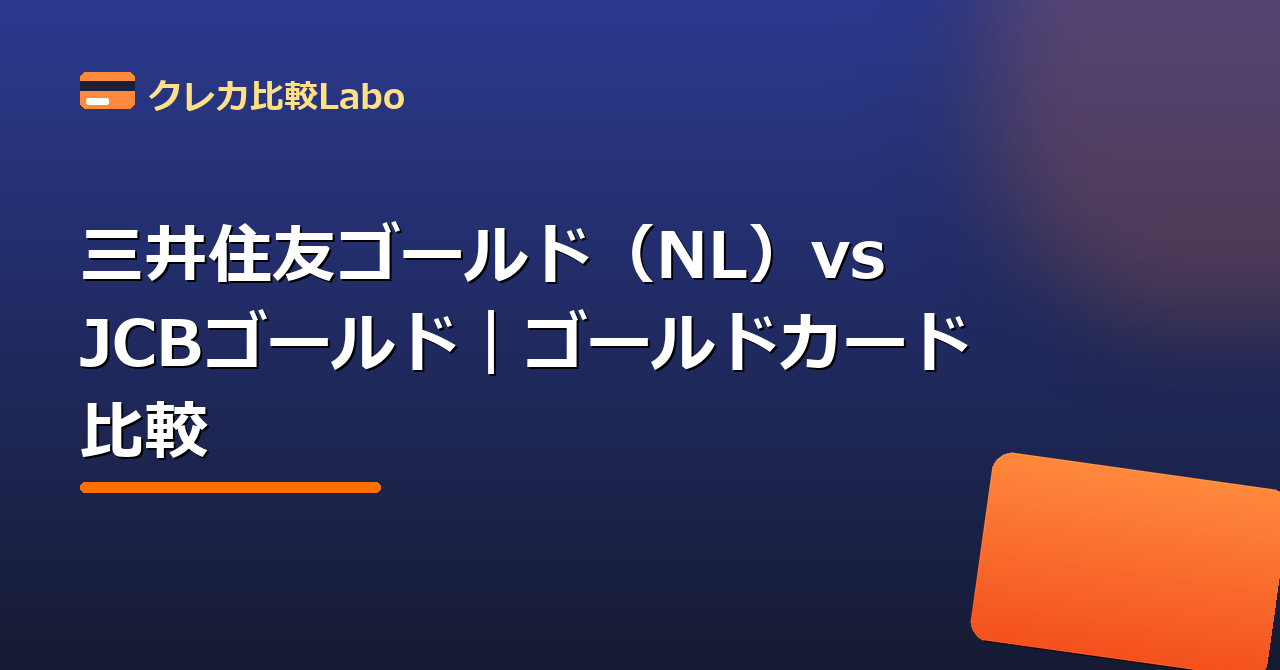
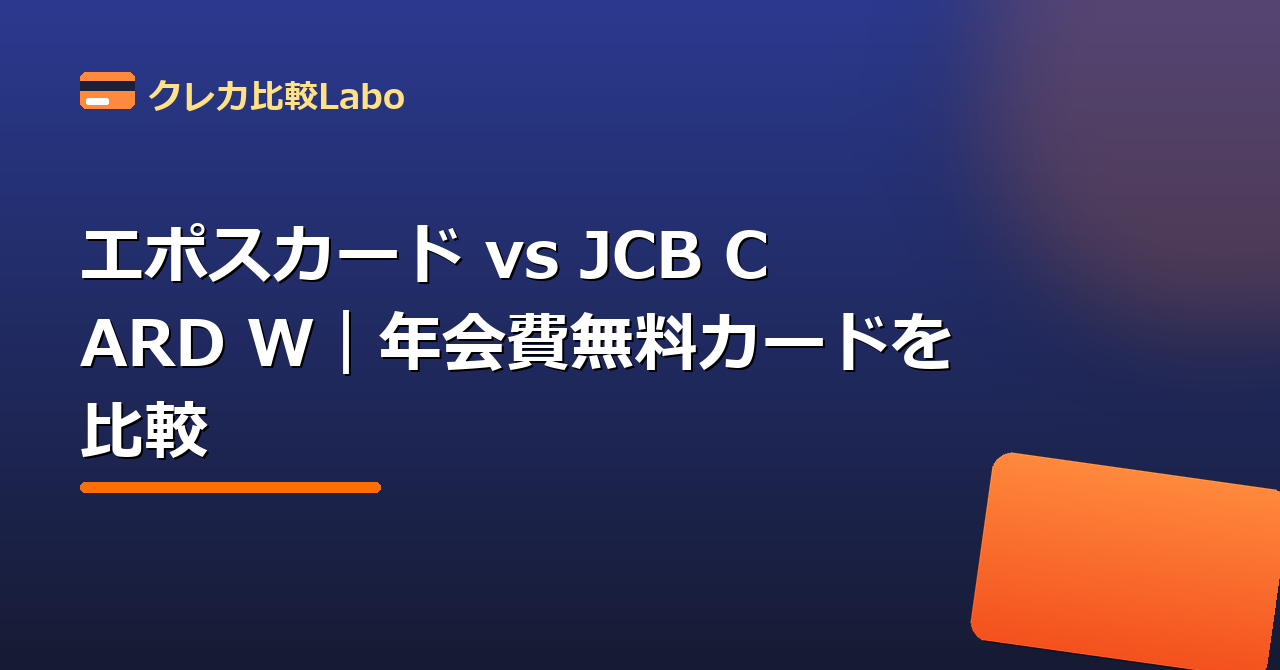
Add 3 new diagram types (store matrix / double-point route / tsumitate route) inspired by viral X infographics

Changed region(s): [[0.0625, 0.3284, 0.7812, 0.5672]]

diff --git a/articles/emoney-charge.html b/articles/emoney-charge.html
@@ -95,6 +95,10 @@
     <p class="article-date">📅 2026年6月9日 公開</p>
     <p class="article-byline">✍️ 監修・執筆：<a href="../about.html">クレカ比較Labo 編集責任者</a>（金融業界歴20年以上・元クレジットカード会社実務）</p>
     <p class="article-lead">電子マネーへのチャージでもポイントは貯まります。nanaco・WAONをお得に使う方法を解説します。</p>
+    <figure class="article-figure">
+      <svg viewBox="0 0 560 250" xmlns="http://www.w3.org/2000/svg" role="img" aria-label="ポイント二重取りの仕組み"><rect width="100%" height="100%" rx="14" fill="#fafbff"/><defs><marker id="arw" viewBox="0 0 10 10" refX="8" refY="5" markerWidth="7" markerHeight="7" orient="auto"><path d="M0,0L10,5L0,10z" fill="#ff6f00"/></marker></defs><text x="280" y="36" text-anchor="middle" font-size="19" font-weight="700" fill="#283593">ポイント二重取りの基本ルート</text><rect x="30" y="86" width="140" height="60" rx="12" fill="#3949ab"/><text x="100" y="122" text-anchor="middle" font-size="15" font-weight="700" fill="#fff">クレジットカード</text><line x1="172" y1="116" x2="222" y2="116" stroke="#ff6f00" stroke-width="3" marker-end="url(#arw)"/><text x="197" y="100" text-anchor="middle" font-size="12" font-weight="700" fill="#ff6f00">チャージ</text><text x="197" y="144" text-anchor="middle" font-size="12" font-weight="700" fill="#d84315">+0.5〜1%</text><rect x="228" y="86" width="140" height="60" rx="12" fill="#1f6fd0"/><text x="298" y="112" text-anchor="middle" font-size="14" font-weight="700" fill="#fff">電子マネー</text><text x="298" y="132" text-anchor="middle" font-size="14" font-weight="700" fill="#fff">スマホ決済</text><line x1="370" y1="116" x2="420" y2="116" stroke="#ff6f00" stroke-width="3" marker-end="url(#arw)"/><text x="395" y="100" text-anchor="middle" font-size="12" font-weight="700" fill="#ff6f00">支払い</text><text x="395" y="144" text-anchor="middle" font-size="12" font-weight="700" fill="#d84315">+0.5〜1%</text><rect x="426" y="86" width="104" height="60" rx="12" fill="#2e7d32"/><text x="478" y="122" text-anchor="middle" font-size="15" font-weight="700" fill="#fff">お店</text><rect x="120" y="176" width="320" height="34" rx="10" fill="#fff4e5"/><text x="280" y="198" text-anchor="middle" font-size="14" font-weight="700" fill="#d84315">合計 1〜2%（ポイントカード提示で三重取りも）</text><text x="280" y="232" text-anchor="middle" font-size="11" fill="#8a90a8">※チャージでポイントが付くカードの組み合わせが前提。付与対象は変更されることがあります。</text></svg>
+      <figcaption>チャージでポイントが付くカードを選ぶのが二重取りのコツです。</figcaption>
+    </figure>
     <nav class="article-toc" aria-label="目次">
       <p class="toc-title">📑 目次</p>
       <ol>

diff --git a/articles/konbini-card.html b/articles/konbini-card.html
@@ -95,6 +95,10 @@
     <p class="article-date">📅 2026年6月13日 公開</p>
     <p class="article-byline">✍️ 監修・執筆：<a href="../about.html">クレカ比較Labo 編集責任者</a>（金融業界歴20年以上・元クレジットカード会社実務）</p>
     <p class="article-lead">毎日のコンビニ利用は、カードと支払い方法の選び方だけで還元率が10倍以上変わることもある「ポイ活の主戦場」です。仕組みを知って取りこぼしを防ぎましょう。</p>
+    <figure class="article-figure">
+      <svg viewBox="0 0 560 300" xmlns="http://www.w3.org/2000/svg" role="img" aria-label="利用先別のカード還元率マトリクス"><rect width="100%" height="100%" rx="14" fill="#fafbff"/><text x="280" y="34" text-anchor="middle" font-size="19" font-weight="700" fill="#283593">どこで使う？×どのカード？ 還元率マップ</text><rect x="116" y="52" width="102" height="30" rx="6" fill="#283593"/><text x="167.0" y="72" text-anchor="middle" font-size="11" font-weight="700" fill="#fff">三井住友NL</text><rect x="222" y="52" width="102" height="30" rx="6" fill="#283593"/><text x="273.0" y="72" text-anchor="middle" font-size="11" font-weight="700" fill="#fff">JCB CARD W</text><rect x="328" y="52" width="102" height="30" rx="6" fill="#283593"/><text x="379.0" y="72" text-anchor="middle" font-size="11" font-weight="700" fill="#fff">楽天カード</text><rect x="434" y="52" width="102" height="30" rx="6" fill="#283593"/><text x="485.0" y="72" text-anchor="middle" font-size="11" font-weight="700" fill="#fff">イオンカード</text><text x="106" y="113.0" text-anchor="end" font-size="13" font-weight="700" fill="#3a3f5a">コンビニ</text><rect x="116" y="86" width="102" height="38" rx="8" fill="#ff6f00"/><text x="167.0" y="111.0" text-anchor="middle" font-size="15" font-weight="700" fill="#fff">最大7%</text><rect x="222" y="86" width="102" height="38" rx="8" fill="#3949ab"/><text x="273.0" y="111.0" text-anchor="middle" font-size="15" font-weight="700" fill="#fff">1%</text><rect x="328" y="86" width="102" height="38" rx="8" fill="#3949ab"/><text x="379.0" y="111.0" text-anchor="middle" font-size="15" font-weight="700" fill="#fff">1%</text><rect x="434" y="86" width="102" height="38" rx="8" fill="#eef0fa"/><text x="485.0" y="111.0" text-anchor="middle" font-size="15" font-weight="700" fill="#5a6079">0.5%</text><text x="106" y="157.0" text-anchor="end" font-size="13" font-weight="700" fill="#3a3f5a">ネット通販</text><rect x="116" y="130" width="102" height="38" rx="8" fill="#eef0fa"/><text x="167.0" y="155.0" text-anchor="middle" font-size="15" font-weight="700" fill="#5a6079">0.5%</text><rect x="222" y="130" width="102" height="38" rx="8" fill="#ff9800"/><text x="273.0" y="155.0" text-anchor="middle" font-size="11" font-weight="700" fill="#fff">Amazon 2%</text><rect x="328" y="130" width="102" height="38" rx="8" fill="#ff6f00"/><text x="379.0" y="155.0" text-anchor="middle" font-size="11" font-weight="700" fill="#fff">楽天市場 3%</text><rect x="434" y="130" width="102" height="38" rx="8" fill="#eef0fa"/><text x="485.0" y="155.0" text-anchor="middle" font-size="15" font-weight="700" fill="#5a6079">0.5%</text><text x="106" y="201.0" text-anchor="end" font-size="13" font-weight="700" fill="#3a3f5a">イオン系</text><rect x="116" y="174" width="102" height="38" rx="8" fill="#eef0fa"/><text x="167.0" y="199.0" text-anchor="middle" font-size="15" font-weight="700" fill="#5a6079">0.5%</text><rect x="222" y="174" width="102" height="38" rx="8" fill="#3949ab"/><text x="273.0" y="199.0" text-anchor="middle" font-size="15" font-weight="700" fill="#fff">1%</text><rect x="328" y="174" width="102" height="38" rx="8" fill="#3949ab"/><text x="379.0" y="199.0" text-anchor="middle" font-size="15" font-weight="700" fill="#fff">1%</text><rect x="434" y="174" width="102" height="38" rx="8" fill="#3949ab"/><text x="485.0" y="199.0" text-anchor="middle" font-size="15" font-weight="700" fill="#fff">1%+優待</text><text x="106" y="245.0" text-anchor="end" font-size="13" font-weight="700" fill="#3a3f5a">基本還元</text><rect x="116" y="218" width="102" height="38" rx="8" fill="#eef0fa"/><text x="167.0" y="243.0" text-anchor="middle" font-size="15" font-weight="700" fill="#5a6079">0.5%</text><rect x="222" y="218" width="102" height="38" rx="8" fill="#3949ab"/><text x="273.0" y="243.0" text-anchor="middle" font-size="15" font-weight="700" fill="#fff">1%</text><rect x="328" y="218" width="102" height="38" rx="8" fill="#3949ab"/><text x="379.0" y="243.0" text-anchor="middle" font-size="15" font-weight="700" fill="#fff">1%</text><rect x="434" y="218" width="102" height="38" rx="8" fill="#eef0fa"/><text x="485.0" y="243.0" text-anchor="middle" font-size="15" font-weight="700" fill="#5a6079">0.5%</text><text x="280" y="284" text-anchor="middle" font-size="11" fill="#8a90a8">※タッチ決済・特約店等の条件あり。最新の還元条件は各公式サイトで。</text></svg>
+      <figcaption>カードによって「得意な場所」が違います。コンビニ利用が多いなら対象店高還元カードを。</figcaption>
+    </figure>
     <nav class="article-toc" aria-label="目次">
       <p class="toc-title">📑 目次</p>
       <ol>

diff --git a/articles/nisa-card-combo.html b/articles/nisa-card-combo.html
@@ -95,6 +95,10 @@
     <p class="article-date">📅 2026年6月10日 公開</p>
     <p class="article-byline">✍️ 監修・執筆：<a href="../about.html">クレカ比較Labo 編集責任者</a>（金融業界歴20年以上・元クレジットカード会社実務）</p>
     <p class="article-lead">新NISAをお得に使う鍵は「証券会社とクレジットカードの組み合わせ」です。同系列で揃えるとクレカ積立の還元率が上がります。代表的な組み合わせを比較します。</p>
+    <figure class="article-figure">
+      <svg viewBox="0 0 560 270" xmlns="http://www.w3.org/2000/svg" role="img" aria-label="クレカ積立のカードと証券会社の組み合わせ"><rect width="100%" height="100%" rx="14" fill="#fafbff"/><defs><marker id="arw2" viewBox="0 0 10 10" refX="8" refY="5" markerWidth="7" markerHeight="7" orient="auto"><path d="M0,0L10,5L0,10z" fill="#ff6f00"/></marker></defs><text x="280" y="36" text-anchor="middle" font-size="19" font-weight="700" fill="#283593">クレカ積立は「カード×証券」の組み合わせ</text><rect x="40" y="62" width="180" height="46" rx="10" fill="#fff" stroke="#bf0000" stroke-width="2"/><text x="130" y="91" text-anchor="middle" font-size="13" font-weight="700" fill="#bf0000">楽天カード</text><line x1="226" y1="85" x2="306" y2="85" stroke="#ff6f00" stroke-width="3" marker-end="url(#arw2)"/><text x="266" y="74" text-anchor="middle" font-size="11" font-weight="700" fill="#ff6f00">積立</text><rect x="312" y="62" width="180" height="46" rx="10" fill="#bf0000"/><text x="402" y="91" text-anchor="middle" font-size="13" font-weight="700" fill="#fff">楽天証券</text><rect x="40" y="120" width="180" height="46" rx="10" fill="#fff" stroke="#1f6fd0" stroke-width="2"/><text x="130" y="149" text-anchor="middle" font-size="13" font-weight="700" fill="#1f6fd0">三井住友カード(NL)</text><line x1="226" y1="143" x2="306" y2="143" stroke="#ff6f00" stroke-width="3" marker-end="url(#arw2)"/><text x="266" y="132" text-anchor="middle" font-size="11" font-weight="700" fill="#ff6f00">積立</text><rect x="312" y="120" width="180" height="46" rx="10" fill="#1f6fd0"/><text x="402" y="149" text-anchor="middle" font-size="13" font-weight="700" fill="#fff">SBI証券</text><rect x="40" y="178" width="180" height="46" rx="10" fill="#fff" stroke="#00897b" stroke-width="2"/><text x="130" y="207" text-anchor="middle" font-size="13" font-weight="700" fill="#00897b">マネックスカード</text><line x1="226" y1="201" x2="306" y2="201" stroke="#ff6f00" stroke-width="3" marker-end="url(#arw2)"/><text x="266" y="190" text-anchor="middle" font-size="11" font-weight="700" fill="#ff6f00">積立</text><rect x="312" y="178" width="180" height="46" rx="10" fill="#00897b"/><text x="402" y="207" text-anchor="middle" font-size="13" font-weight="700" fill="#fff">マネックス証券</text><text x="280" y="252" text-anchor="middle" font-size="13" font-weight="700" fill="#d84315">積立するだけで決済額の0.5〜1%前後のポイントが毎月貯まる</text></svg>
+      <figcaption>同じ経済圏の「カード×証券」ペアで選ぶと、ポイントが効率よく貯まります。</figcaption>
+    </figure>
     <nav class="article-toc" aria-label="目次">
       <p class="toc-title">📑 目次</p>
       <ol>

diff --git a/articles/point-double.html b/articles/point-double.html
@@ -95,6 +95,10 @@
     <p class="article-date">📅 2026年6月9日 公開</p>
     <p class="article-byline">✍️ 監修・執筆：<a href="../about.html">クレカ比較Labo 編集責任者</a>（金融業界歴20年以上・元クレジットカード会社実務）</p>
     <p class="article-lead">支払い方法を工夫するだけで、ポイントは二重・三重に貯まります。還元率を最大化するテクニックを解説します。</p>
+    <figure class="article-figure">
+      <svg viewBox="0 0 560 250" xmlns="http://www.w3.org/2000/svg" role="img" aria-label="ポイント二重取りの仕組み"><rect width="100%" height="100%" rx="14" fill="#fafbff"/><defs><marker id="arw" viewBox="0 0 10 10" refX="8" refY="5" markerWidth="7" markerHeight="7" orient="auto"><path d="M0,0L10,5L0,10z" fill="#ff6f00"/></marker></defs><text x="280" y="36" text-anchor="middle" font-size="19" font-weight="700" fill="#283593">ポイント二重取りの基本ルート</text><rect x="30" y="86" width="140" height="60" rx="12" fill="#3949ab"/><text x="100" y="122" text-anchor="middle" font-size="15" font-weight="700" fill="#fff">クレジットカード</text><line x1="172" y1="116" x2="222" y2="116" stroke="#ff6f00" stroke-width="3" marker-end="url(#arw)"/><text x="197" y="100" text-anchor="middle" font-size="12" font-weight="700" fill="#ff6f00">チャージ</text><text x="197" y="144" text-anchor="middle" font-size="12" font-weight="700" fill="#d84315">+0.5〜1%</text><rect x="228" y="86" width="140" height="60" rx="12" fill="#1f6fd0"/><text x="298" y="112" text-anchor="middle" font-size="14" font-weight="700" fill="#fff">電子マネー</text><text x="298" y="132" text-anchor="middle" font-size="14" font-weight="700" fill="#fff">スマホ決済</text><line x1="370" y1="116" x2="420" y2="116" stroke="#ff6f00" stroke-width="3" marker-end="url(#arw)"/><text x="395" y="100" text-anchor="middle" font-size="12" font-weight="700" fill="#ff6f00">支払い</text><text x="395" y="144" text-anchor="middle" font-size="12" font-weight="700" fill="#d84315">+0.5〜1%</text><rect x="426" y="86" width="104" height="60" rx="12" fill="#2e7d32"/><text x="478" y="122" text-anchor="middle" font-size="15" font-weight="700" fill="#fff">お店</text><rect x="120" y="176" width="320" height="34" rx="10" fill="#fff4e5"/><text x="280" y="198" text-anchor="middle" font-size="14" font-weight="700" fill="#d84315">合計 1〜2%（ポイントカード提示で三重取りも）</text><text x="280" y="232" text-anchor="middle" font-size="11" fill="#8a90a8">※チャージでポイントが付くカードの組み合わせが前提。付与対象は変更されることがあります。</text></svg>
+      <figcaption>チャージと支払いの両方でポイントが付くのが「二重取り」の基本形です。</figcaption>
+    </figure>
     <nav class="article-toc" aria-label="目次">
       <p class="toc-title">📑 目次</p>
       <ol>

diff --git a/articles/supermarket-card.html b/articles/supermarket-card.html
@@ -95,6 +95,10 @@
     <p class="article-date">📅 2026年6月14日 公開</p>
     <p class="article-byline">✍️ 監修・執筆：<a href="../about.html">クレカ比較Labo 編集責任者</a>（金融業界歴20年以上・元クレジットカード会社実務）</p>
     <p class="article-lead">食費・日用品は家計支出の中心。よく行くスーパーに合わせたカード選びと優待デーの活用で、毎月の生活費から着実にポイントを回収しましょう。</p>
+    <figure class="article-figure">
+      <svg viewBox="0 0 560 300" xmlns="http://www.w3.org/2000/svg" role="img" aria-label="利用先別のカード還元率マトリクス"><rect width="100%" height="100%" rx="14" fill="#fafbff"/><text x="280" y="34" text-anchor="middle" font-size="19" font-weight="700" fill="#283593">どこで使う？×どのカード？ 還元率マップ</text><rect x="116" y="52" width="102" height="30" rx="6" fill="#283593"/><text x="167.0" y="72" text-anchor="middle" font-size="11" font-weight="700" fill="#fff">三井住友NL</text><rect x="222" y="52" width="102" height="30" rx="6" fill="#283593"/><text x="273.0" y="72" text-anchor="middle" font-size="11" font-weight="700" fill="#fff">JCB CARD W</text><rect x="328" y="52" width="102" height="30" rx="6" fill="#283593"/><text x="379.0" y="72" text-anchor="middle" font-size="11" font-weight="700" fill="#fff">楽天カード</text><rect x="434" y="52" width="102" height="30" rx="6" fill="#283593"/><text x="485.0" y="72" text-anchor="middle" font-size="11" font-weight="700" fill="#fff">イオンカード</text><text x="106" y="113.0" text-anchor="end" font-size="13" font-weight="700" fill="#3a3f5a">コンビニ</text><rect x="116" y="86" width="102" height="38" rx="8" fill="#ff6f00"/><text x="167.0" y="111.0" text-anchor="middle" font-size="15" font-weight="700" fill="#fff">最大7%</text><rect x="222" y="86" width="102" height="38" rx="8" fill="#3949ab"/><text x="273.0" y="111.0" text-anchor="middle" font-size="15" font-weight="700" fill="#fff">1%</text><rect x="328" y="86" width="102" height="38" rx="8" fill="#3949ab"/><text x="379.0" y="111.0" text-anchor="middle" font-size="15" font-weight="700" fill="#fff">1%</text><rect x="434" y="86" width="102" height="38" rx="8" fill="#eef0fa"/><text x="485.0" y="111.0" text-anchor="middle" font-size="15" font-weight="700" fill="#5a6079">0.5%</text><text x="106" y="157.0" text-anchor="end" font-size="13" font-weight="700" fill="#3a3f5a">ネット通販</text><rect x="116" y="130" width="102" height="38" rx="8" fill="#eef0fa"/><text x="167.0" y="155.0" text-anchor="middle" font-size="15" font-weight="700" fill="#5a6079">0.5%</text><rect x="222" y="130" width="102" height="38" rx="8" fill="#ff9800"/><text x="273.0" y="155.0" text-anchor="middle" font-size="11" font-weight="700" fill="#fff">Amazon 2%</text><rect x="328" y="130" width="102" height="38" rx="8" fill="#ff6f00"/><text x="379.0" y="155.0" text-anchor="middle" font-size="11" font-weight="700" fill="#fff">楽天市場 3%</text><rect x="434" y="130" width="102" height="38" rx="8" fill="#eef0fa"/><text x="485.0" y="155.0" text-anchor="middle" font-size="15" font-weight="700" fill="#5a6079">0.5%</text><text x="106" y="201.0" text-anchor="end" font-size="13" font-weight="700" fill="#3a3f5a">イオン系</text><rect x="116" y="174" width="102" height="38" rx="8" fill="#eef0fa"/><text x="167.0" y="199.0" text-anchor="middle" font-size="15" font-weight="700" fill="#5a6079">0.5%</text><rect x="222" y="174" width="102" height="38" rx="8" fill="#3949ab"/><text x="273.0" y="199.0" text-anchor="middle" font-size="15" font-weight="700" fill="#fff">1%</text><rect x="328" y="174" width="102" height="38" rx="8" fill="#3949ab"/><text x="379.0" y="199.0" text-anchor="middle" font-size="15" font-weight="700" fill="#fff">1%</text><rect x="434" y="174" width="102" height="38" rx="8" fill="#3949ab"/><text x="485.0" y="199.0" text-anchor="middle" font-size="15" font-weight="700" fill="#fff">1%+優待</text><text x="106" y="245.0" text-anchor="end" font-size="13" font-weight="700" fill="#3a3f5a">基本還元</text><rect x="116" y="218" width="102" height="38" rx="8" fill="#eef0fa"/><text x="167.0" y="243.0" text-anchor="middle" font-size="15" font-weight="700" fill="#5a6079">0.5%</text><rect x="222" y="218" width="102" height="38" rx="8" fill="#3949ab"/><text x="273.0" y="243.0" text-anchor="middle" font-size="15" font-weight="700" fill="#fff">1%</text><rect x="328" y="218" width="102" height="38" rx="8" fill="#3949ab"/><text x="379.0" y="243.0" text-anchor="middle" font-size="15" font-weight="700" fill="#fff">1%</text><rect x="434" y="218" width="102" height="38" rx="8" fill="#eef0fa"/><text x="485.0" y="243.0" text-anchor="middle" font-size="15" font-weight="700" fill="#5a6079">0.5%</text><text x="280" y="284" text-anchor="middle" font-size="11" fill="#8a90a8">※タッチ決済・特約店等の条件あり。最新の還元条件は各公式サイトで。</text></svg>
+      <figcaption>よく行くお店に合わせてカードを選ぶと、同じ支出でも貯まり方が変わります。</figcaption>
+    </figure>
     <nav class="article-toc" aria-label="目次">
       <p class="toc-title">📑 目次</p>
       <ol>

diff --git a/generate.py b/generate.py
@@ -1063,6 +1063,103 @@ def diagram_cardgrade(data=None):
     return _svg_frame(inner, vb="0 0 560 260", label="一般・ゴールド・プラチナの違い")
 
 
+def diagram_store_matrix(data=None):
+    """利用先×主要カードの還元率マトリクス（tako_pay型の保存版マップ）。"""
+    cols = ["三井住友NL", "JCB CARD W", "楽天カード", "イオンカード"]
+    rows = [
+        ("コンビニ", ["最大7%", "1%", "1%", "0.5%"]),
+        ("ネット通販", ["0.5%", "Amazon 2%", "楽天市場 3%", "0.5%"]),
+        ("イオン系", ["0.5%", "1%", "1%", "1%+優待"]),
+        ("基本還元", ["0.5%", "1%", "1%", "0.5%"]),
+    ]
+
+    def cell_style(v):
+        m = re.search(r"(\d+\.?\d*)", v)
+        n = float(m.group(1)) if m else 0
+        if n >= 3:
+            return "#ff6f00", "#fff"
+        if n >= 2:
+            return "#ff9800", "#fff"
+        if n >= 1:
+            return "#3949ab", "#fff"
+        return "#eef0fa", "#5a6079"
+
+    inner = ('<text x="280" y="34" text-anchor="middle" font-size="19" font-weight="700" fill="#283593">どこで使う？×どのカード？ 還元率マップ</text>')
+    x0, y0, lw, cw, rh = 20, 52, 96, 106, 44
+    # ヘッダー行
+    for i, c in enumerate(cols):
+        x = x0 + lw + i * cw
+        inner += f'<rect x="{x}" y="{y0}" width="{cw-4}" height="30" rx="6" fill="#283593"/>'
+        inner += f'<text x="{x+(cw-4)/2}" y="{y0+20}" text-anchor="middle" font-size="11" font-weight="700" fill="#fff">{c}</text>'
+    # データ行
+    for r, (label, cells) in enumerate(rows):
+        y = y0 + 34 + r * rh
+        inner += f'<text x="{x0+lw-10}" y="{y+rh/2+5}" text-anchor="end" font-size="13" font-weight="700" fill="#3a3f5a">{label}</text>'
+        for i, v in enumerate(cells):
+            x = x0 + lw + i * cw
+            bg, fg = cell_style(v)
+            fs = 15 if len(v) <= 5 else 11
+            inner += f'<rect x="{x}" y="{y}" width="{cw-4}" height="{rh-6}" rx="8" fill="{bg}"/>'
+            inner += f'<text x="{x+(cw-4)/2}" y="{y+rh/2+3}" text-anchor="middle" font-size="{fs}" font-weight="700" fill="{fg}">{v}</text>'
+    inner += f'<text x="280" y="{y0+34+4*rh+22}" text-anchor="middle" font-size="11" fill="#8a90a8">※タッチ決済・特約店等の条件あり。最新の還元条件は各公式サイトで。</text>'
+    return _svg_frame(inner, vb="0 0 560 300", label="利用先別のカード還元率マトリクス")
+
+
+def diagram_double_route(data=None):
+    """ポイント二重取りのルート図（クレカ→チャージ→支払い）。"""
+    inner = (
+        '<defs><marker id="arw" viewBox="0 0 10 10" refX="8" refY="5" markerWidth="7" markerHeight="7" orient="auto"><path d="M0,0L10,5L0,10z" fill="#ff6f00"/></marker></defs>'
+        '<text x="280" y="36" text-anchor="middle" font-size="19" font-weight="700" fill="#283593">ポイント二重取りの基本ルート</text>'
+        # クレカ
+        '<rect x="30" y="86" width="140" height="60" rx="12" fill="#3949ab"/>'
+        '<text x="100" y="122" text-anchor="middle" font-size="15" font-weight="700" fill="#fff">クレジットカード</text>'
+        # 矢印1
+        '<line x1="172" y1="116" x2="222" y2="116" stroke="#ff6f00" stroke-width="3" marker-end="url(#arw)"/>'
+        '<text x="197" y="100" text-anchor="middle" font-size="12" font-weight="700" fill="#ff6f00">チャージ</text>'
+        '<text x="197" y="144" text-anchor="middle" font-size="12" font-weight="700" fill="#d84315">+0.5〜1%</text>'
+        # 電子マネー/Pay
+        '<rect x="228" y="86" width="140" height="60" rx="12" fill="#1f6fd0"/>'
+        '<text x="298" y="112" text-anchor="middle" font-size="14" font-weight="700" fill="#fff">電子マネー</text>'
+        '<text x="298" y="132" text-anchor="middle" font-size="14" font-weight="700" fill="#fff">スマホ決済</text>'
+        # 矢印2
+        '<line x1="370" y1="116" x2="420" y2="116" stroke="#ff6f00" stroke-width="3" marker-end="url(#arw)"/>'
+        '<text x="395" y="100" text-anchor="middle" font-size="12" font-weight="700" fill="#ff6f00">支払い</text>'
+        '<text x="395" y="144" text-anchor="middle" font-size="12" font-weight="700" fill="#d84315">+0.5〜1%</text>'
+        # お店
+        '<rect x="426" y="86" width="104" height="60" rx="12" fill="#2e7d32"/>'
+        '<text x="478" y="122" text-anchor="middle" font-size="15" font-weight="700" fill="#fff">お店</text>'
+        # 合計と三重取り
+        '<rect x="120" y="176" width="320" height="34" rx="10" fill="#fff4e5"/>'
+        '<text x="280" y="198" text-anchor="middle" font-size="14" font-weight="700" fill="#d84315">合計 1〜2%（ポイントカード提示で三重取りも）</text>'
+        '<text x="280" y="232" text-anchor="middle" font-size="11" fill="#8a90a8">※チャージでポイントが付くカードの組み合わせが前提。付与対象は変更されることがあります。</text>'
+    )
+    return _svg_frame(inner, vb="0 0 560 250", label="ポイント二重取りの仕組み")
+
+
+def diagram_tsumitate_route(data=None):
+    """クレカ積立の「カード×証券」ペアのルート図。"""
+    pairs = [
+        ("楽天カード", "楽天証券", "#bf0000"),
+        ("三井住友カード(NL)", "SBI証券", "#1f6fd0"),
+        ("マネックスカード", "マネックス証券", "#00897b"),
+    ]
+    inner = (
+        '<defs><marker id="arw2" viewBox="0 0 10 10" refX="8" refY="5" markerWidth="7" markerHeight="7" orient="auto"><path d="M0,0L10,5L0,10z" fill="#ff6f00"/></marker></defs>'
+        '<text x="280" y="36" text-anchor="middle" font-size="19" font-weight="700" fill="#283593">クレカ積立は「カード×証券」の組み合わせ</text>'
+    )
+    y = 62
+    for card, broker, color in pairs:
+        inner += f'<rect x="40" y="{y}" width="180" height="46" rx="10" fill="#fff" stroke="{color}" stroke-width="2"/>'
+        inner += f'<text x="130" y="{y+29}" text-anchor="middle" font-size="13" font-weight="700" fill="{color}">{card}</text>'
+        inner += f'<line x1="226" y1="{y+23}" x2="306" y2="{y+23}" stroke="#ff6f00" stroke-width="3" marker-end="url(#arw2)"/>'
+        inner += f'<text x="266" y="{y+12}" text-anchor="middle" font-size="11" font-weight="700" fill="#ff6f00">積立</text>'
+        inner += f'<rect x="312" y="{y}" width="180" height="46" rx="10" fill="{color}"/>'
+        inner += f'<text x="402" y="{y+29}" text-anchor="middle" font-size="13" font-weight="700" fill="#fff">{broker}</text>'
+        y += 58
+    inner += f'<text x="280" y="{y+16}" text-anchor="middle" font-size="13" font-weight="700" fill="#d84315">積立するだけで決済額の0.5〜1%前後のポイントが毎月貯まる</text>'
+    return _svg_frame(inner, vb="0 0 560 270", label="クレカ積立のカードと証券会社の組み合わせ")
+
+
 def _reward_float(s):
     """還元率文字列から基本還元率の数値を取得（例: '1.0%〜3.0%' → 1.0）"""
     m = re.search(r"(\d+\.?\d*)\s*%", s or "")
@@ -1149,6 +1246,12 @@ DIAGRAMS = {
     "vs-epos-jcbw":      (_vs("epos-card", "jcb-card-w"),     "エポスカードとJCB CARD Wの基本還元率比較。"),
     "vs-dcard-rakuten":  (_vs("d-card", "rakuten-card"),      "dカードと楽天カードの基本還元率比較。"),
     "vs-smbc-recruit":   (_vs("smbc-card", "recruit-card"),   "三井住友カード(NL)とリクルートカードの基本還元率比較。"),
+    # マトリクス・ルート図解
+    "konbini-card":      (diagram_store_matrix, "カードによって「得意な場所」が違います。コンビニ利用が多いなら対象店高還元カードを。"),
+    "supermarket-card":  (diagram_store_matrix, "よく行くお店に合わせてカードを選ぶと、同じ支出でも貯まり方が変わります。"),
+    "point-double":      (diagram_double_route, "チャージと支払いの両方でポイントが付くのが「二重取り」の基本形です。"),
+    "emoney-charge":     (diagram_double_route, "チャージでポイントが付くカードを選ぶのが二重取りのコツです。"),
+    "nisa-card-combo":   (diagram_tsumitate_route, "同じ経済圏の「カード×証券」ペアで選ぶと、ポイントが効率よく貯まります。"),
 }
 
 